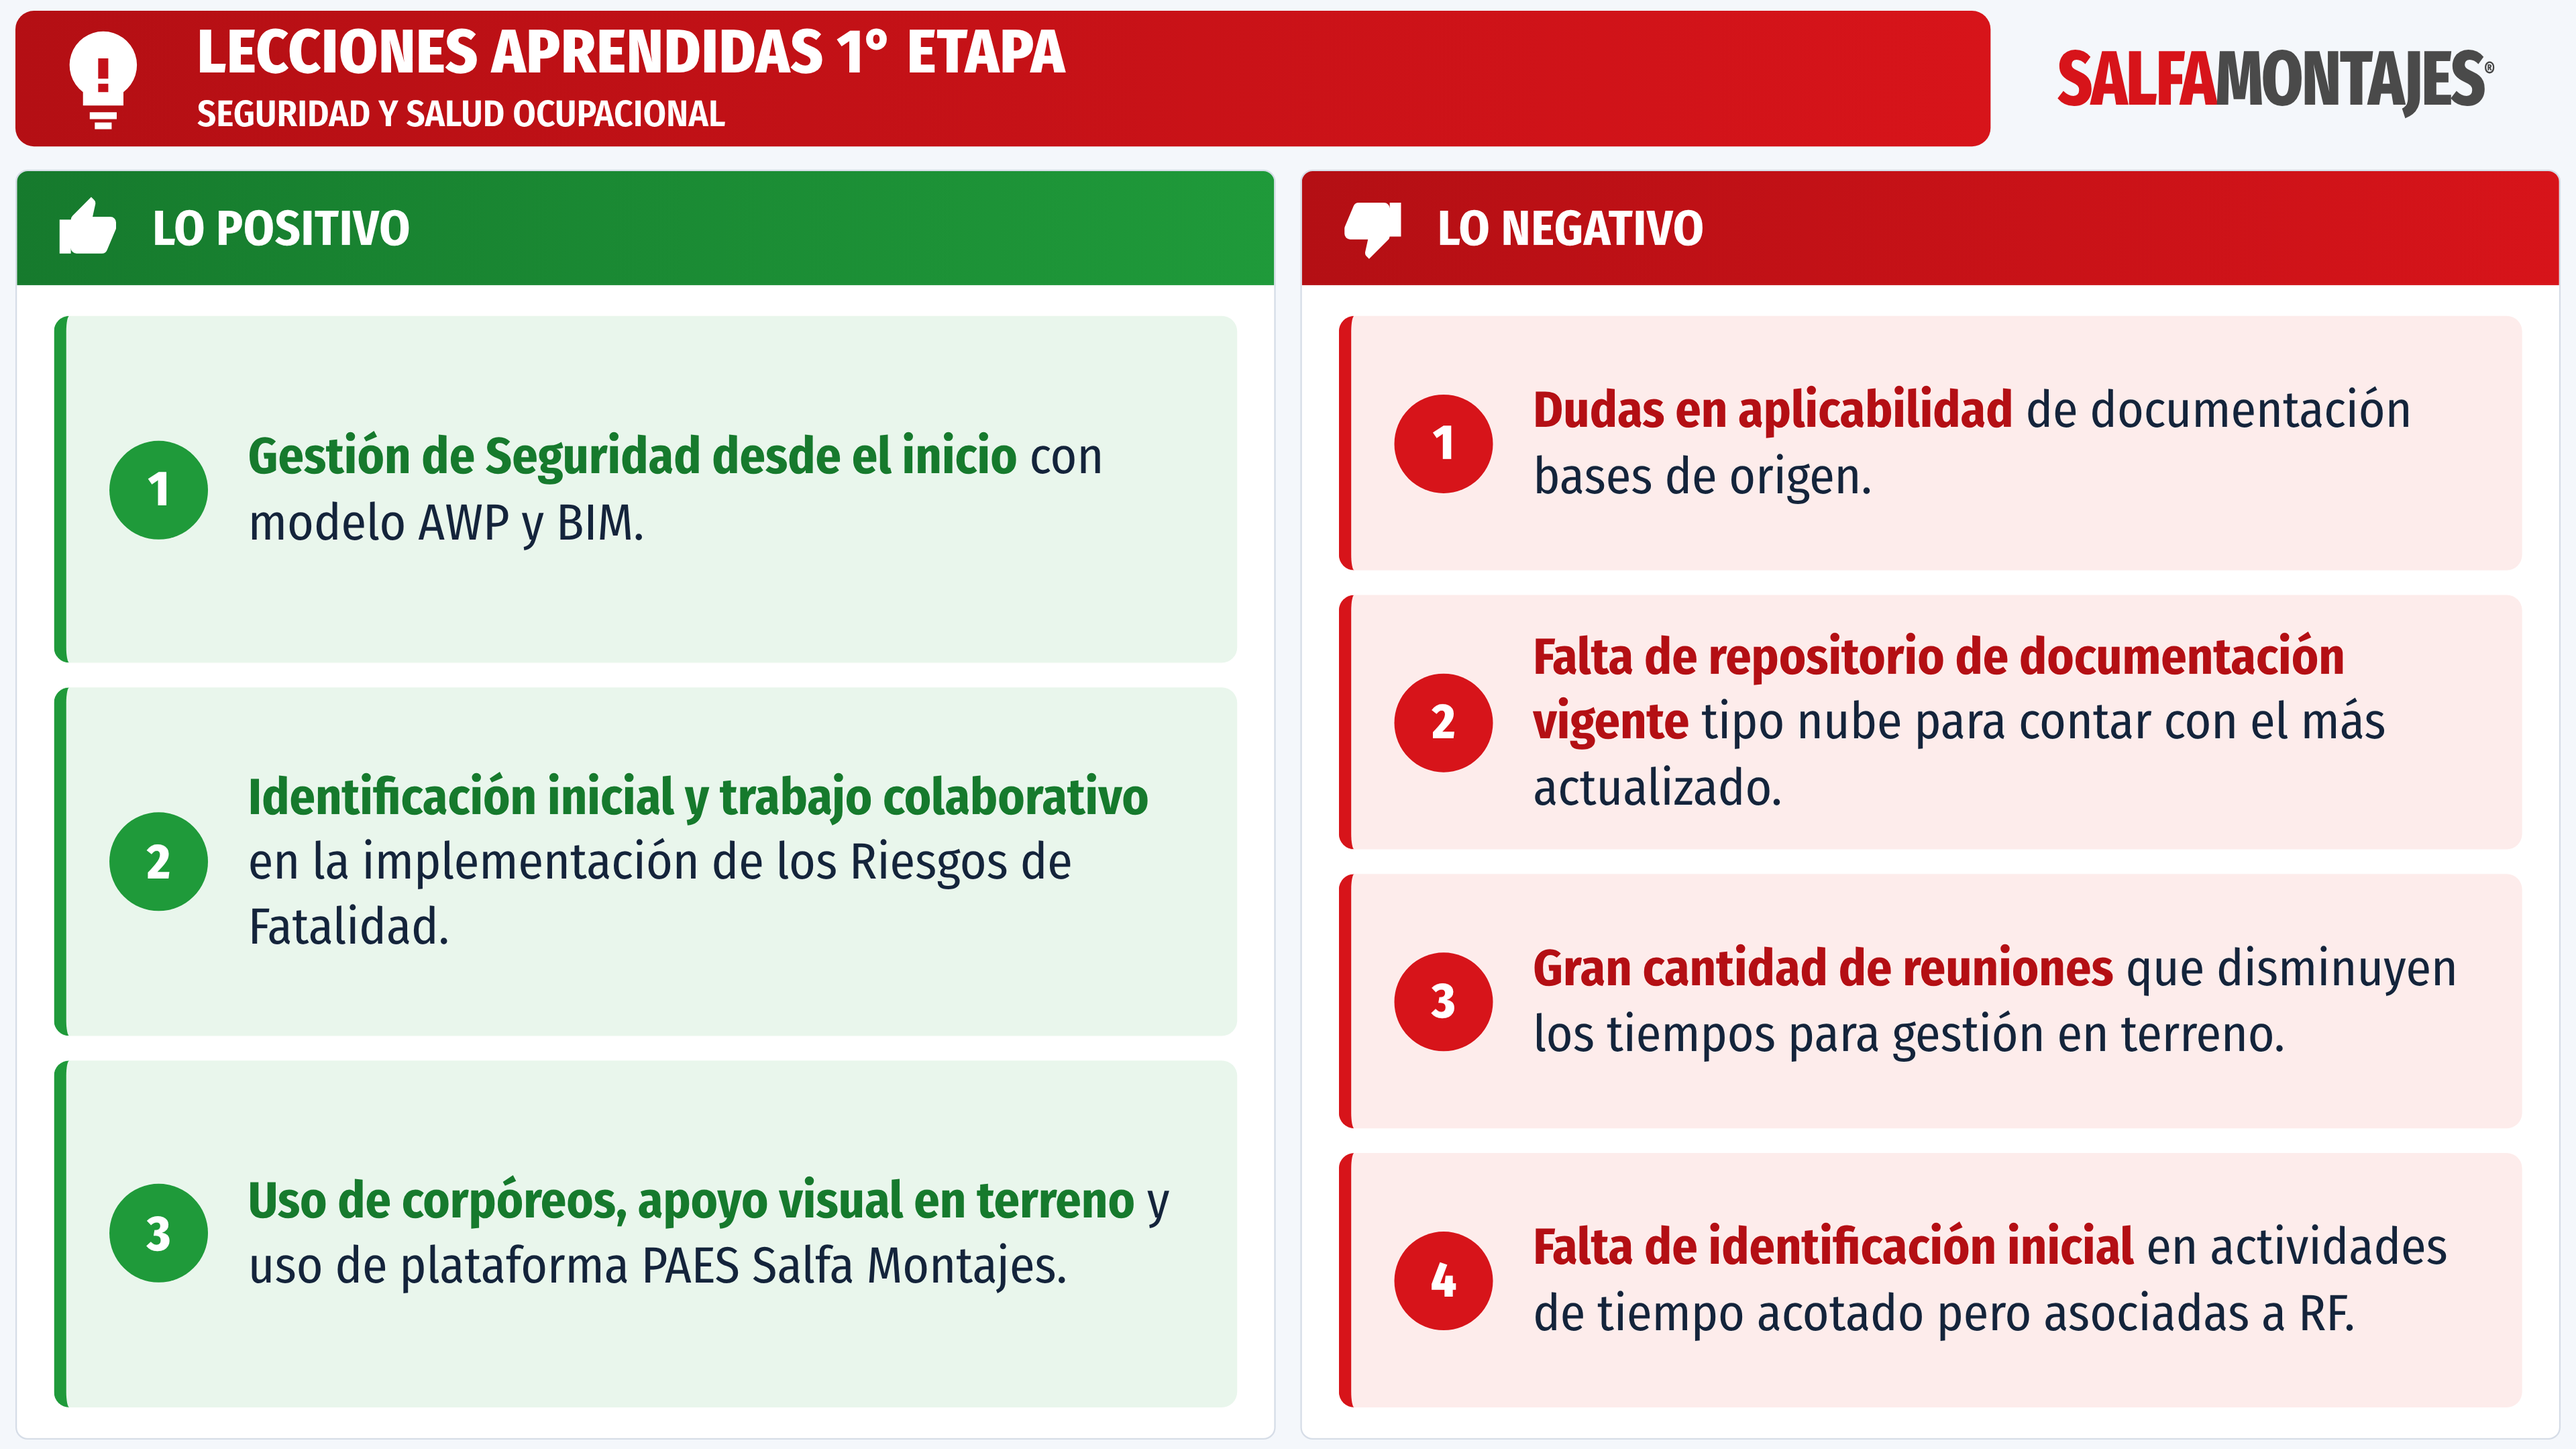
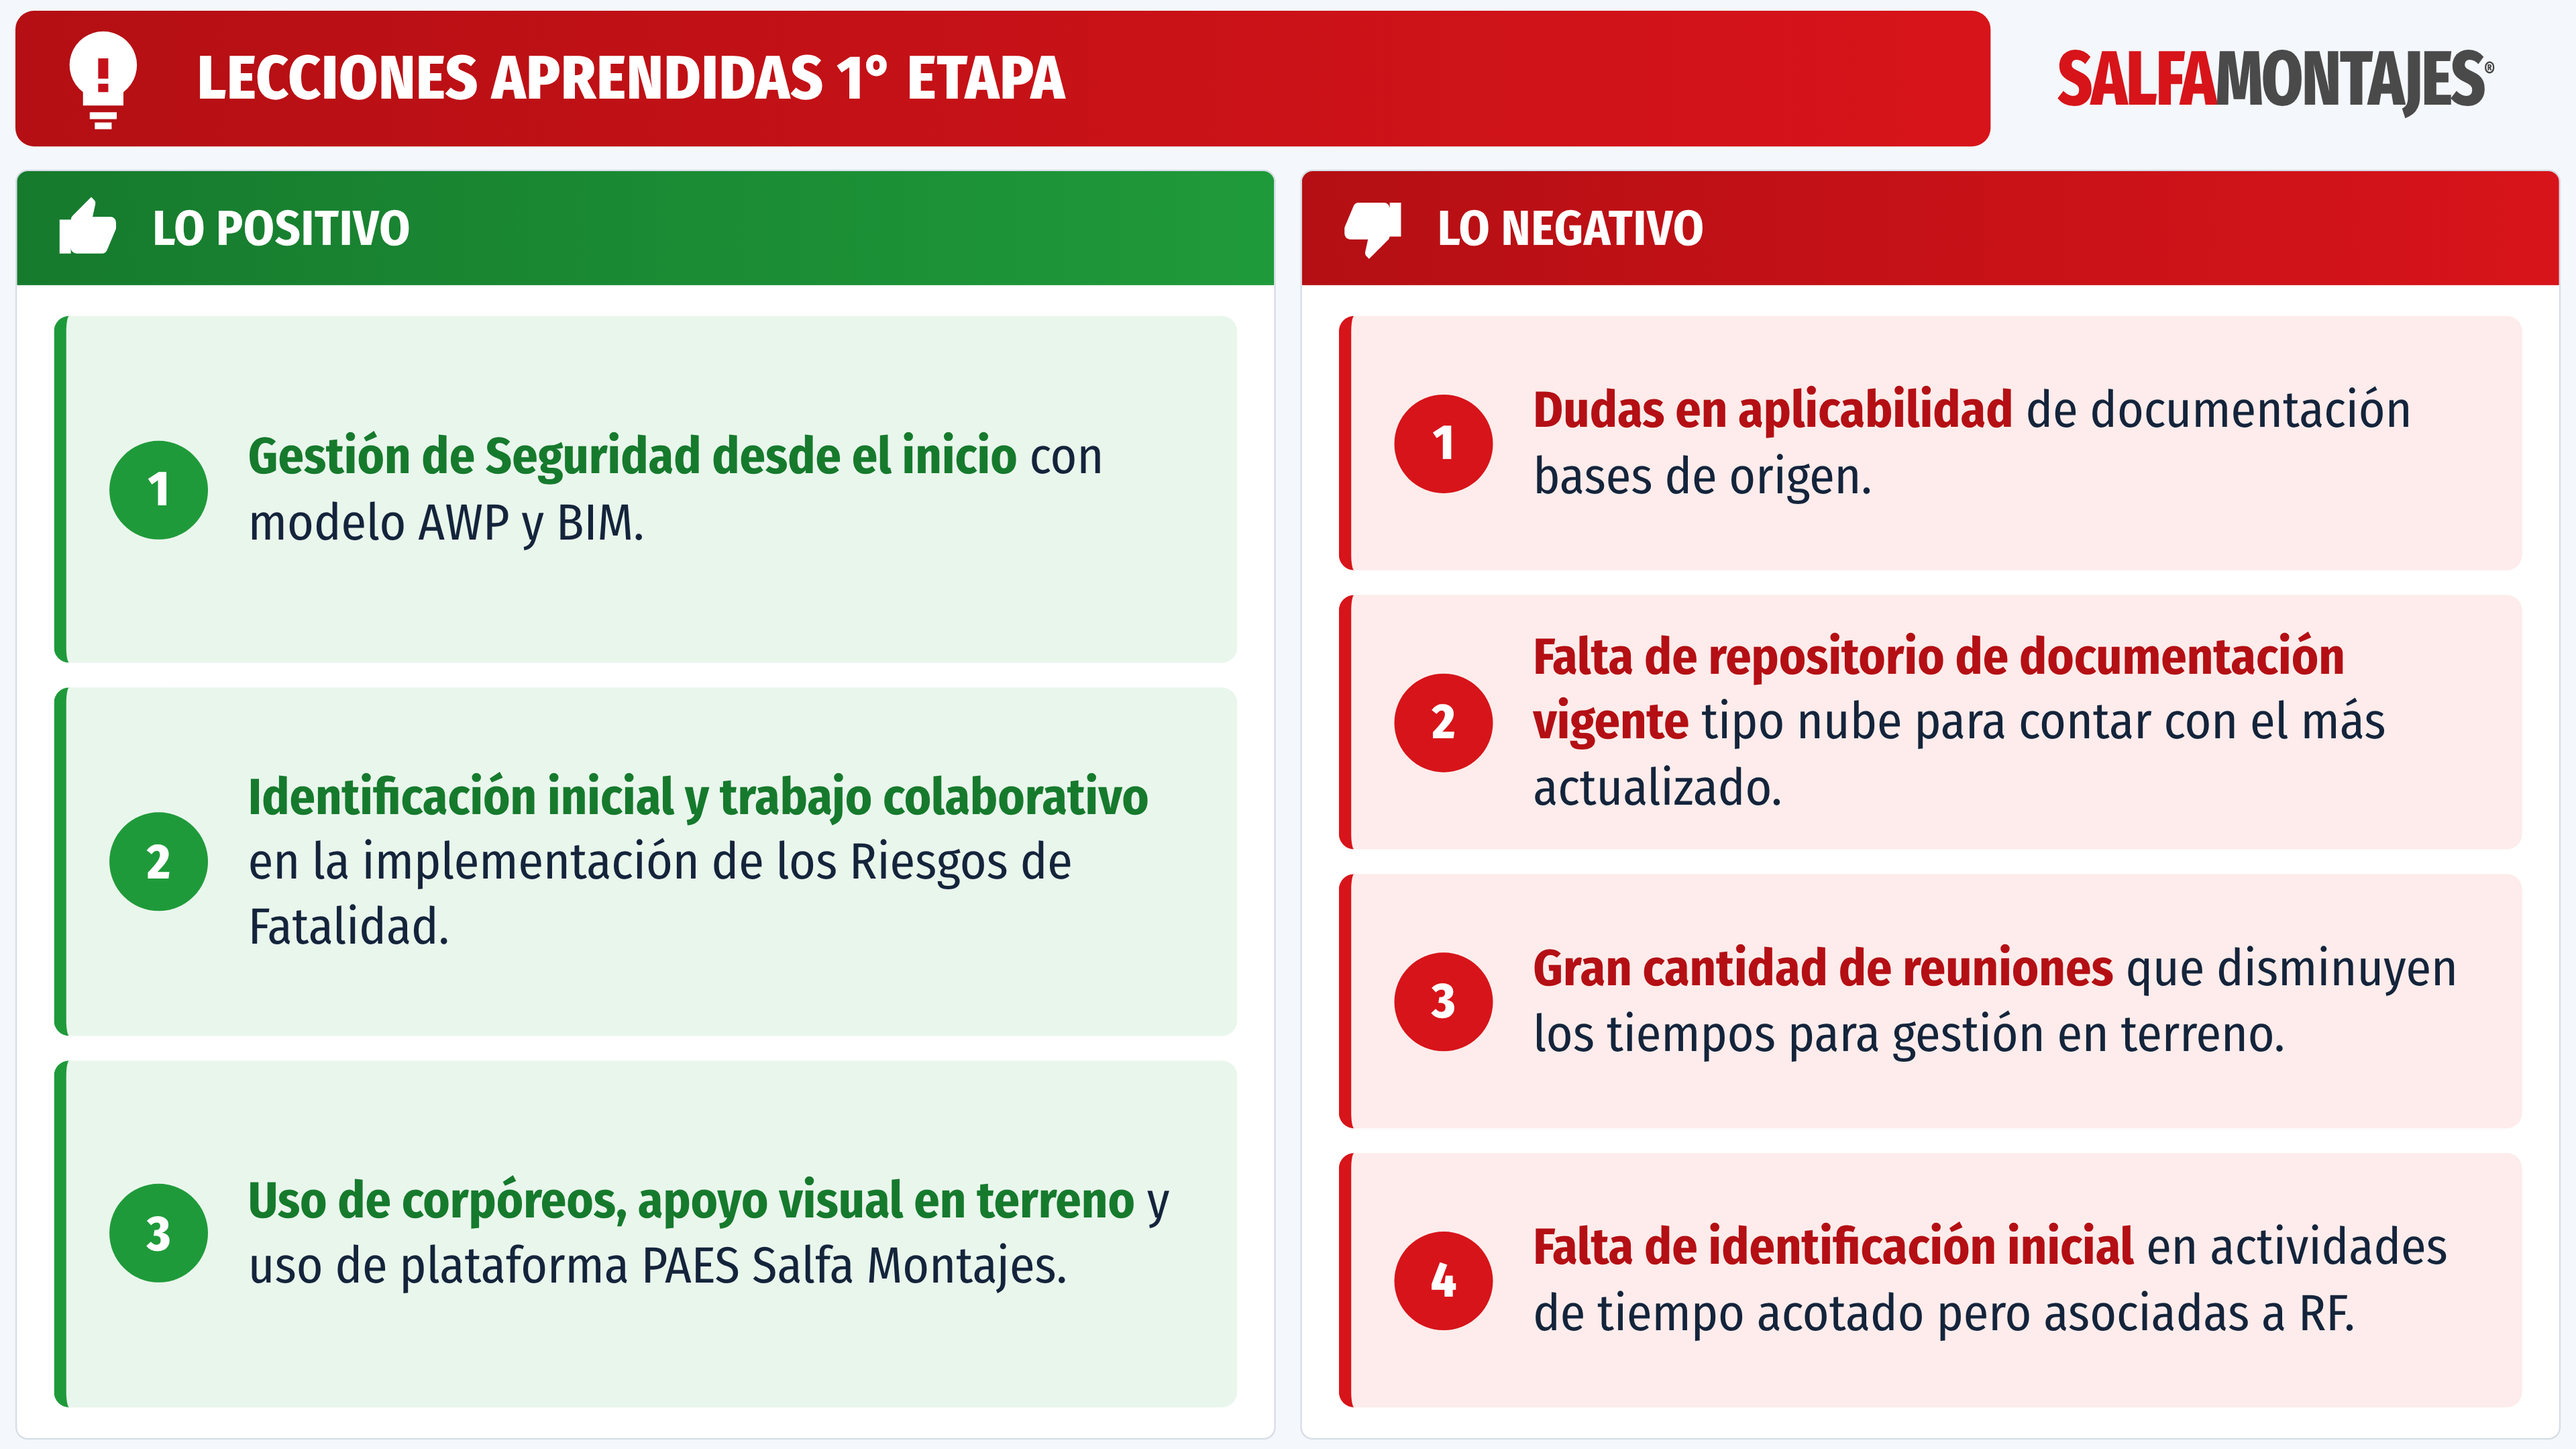
Quitar subtítulo de lecciones aprendidas 1° etapa
Claude-Session: https://claude.ai/code/session_01R7SUHWrVXsce4pGmmGYyHg

Changed region(s): [[0.0625, 0.0, 0.4375, 0.0931]]

diff --git a/lecciones-aprendidas-etapa-1.html b/lecciones-aprendidas-etapa-1.html
@@ -35,7 +35,7 @@
 <div class="top">
   <div class="banner">
     <svg viewBox="0 0 64 64" width="70" height="70" fill="#fff"><path d="M32 4a20 20 0 0 0-12 36v8h24v-8A20 20 0 0 0 32 4zm-8 48h16v4H24zm3 6h10v4H27z"/><path d="M29 20h6v12h-6zm0 15h6v5h-6z" fill="#c4111a"/></svg>
-    <div><h1>LECCIONES APRENDIDAS 1° ETAPA</h1><p>SEGURIDAD Y SALUD OCUPACIONAL</p></div>
+    <div><h1>LECCIONES APRENDIDAS 1° ETAPA</h1></div>
   </div>
   <div class="logo"><span class="a">SALFA</span><span class="b">MONTAJES</span><sup>®</sup></div>
 </div>
